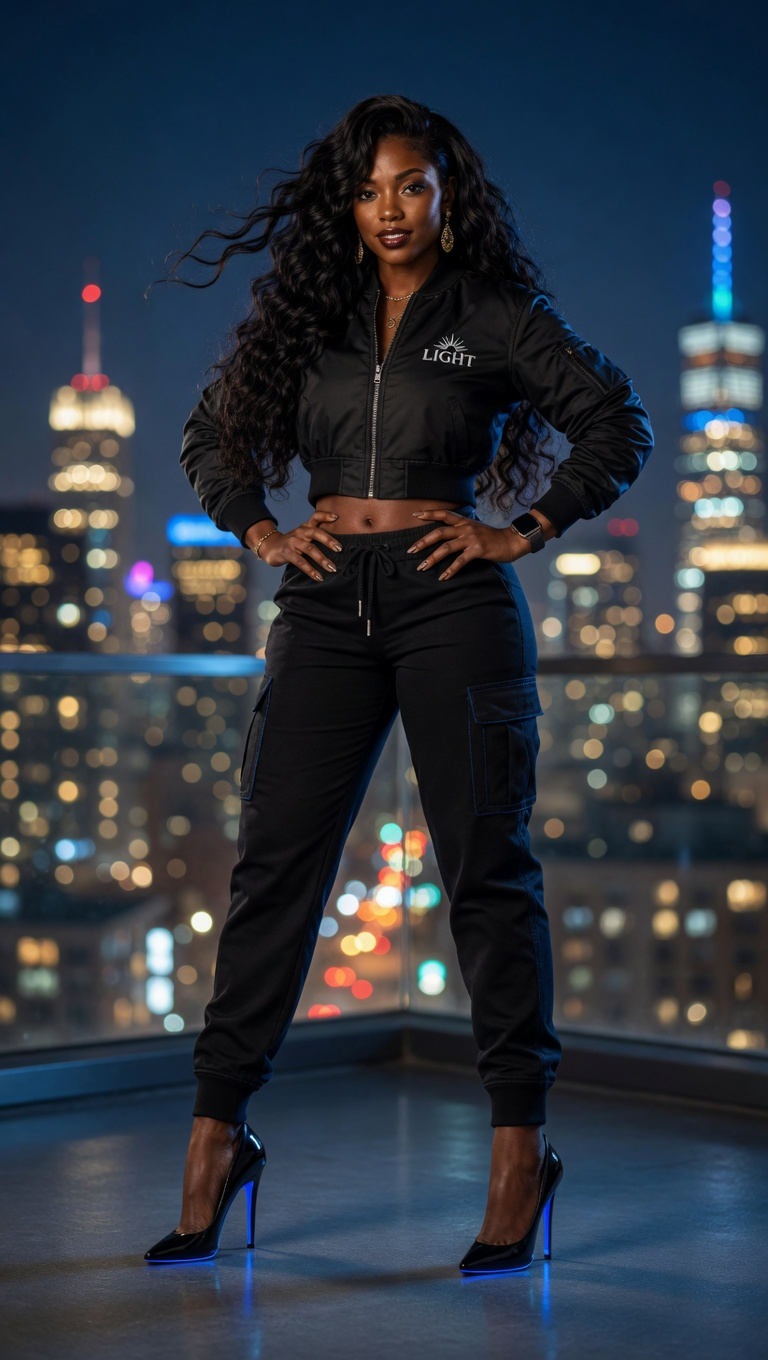
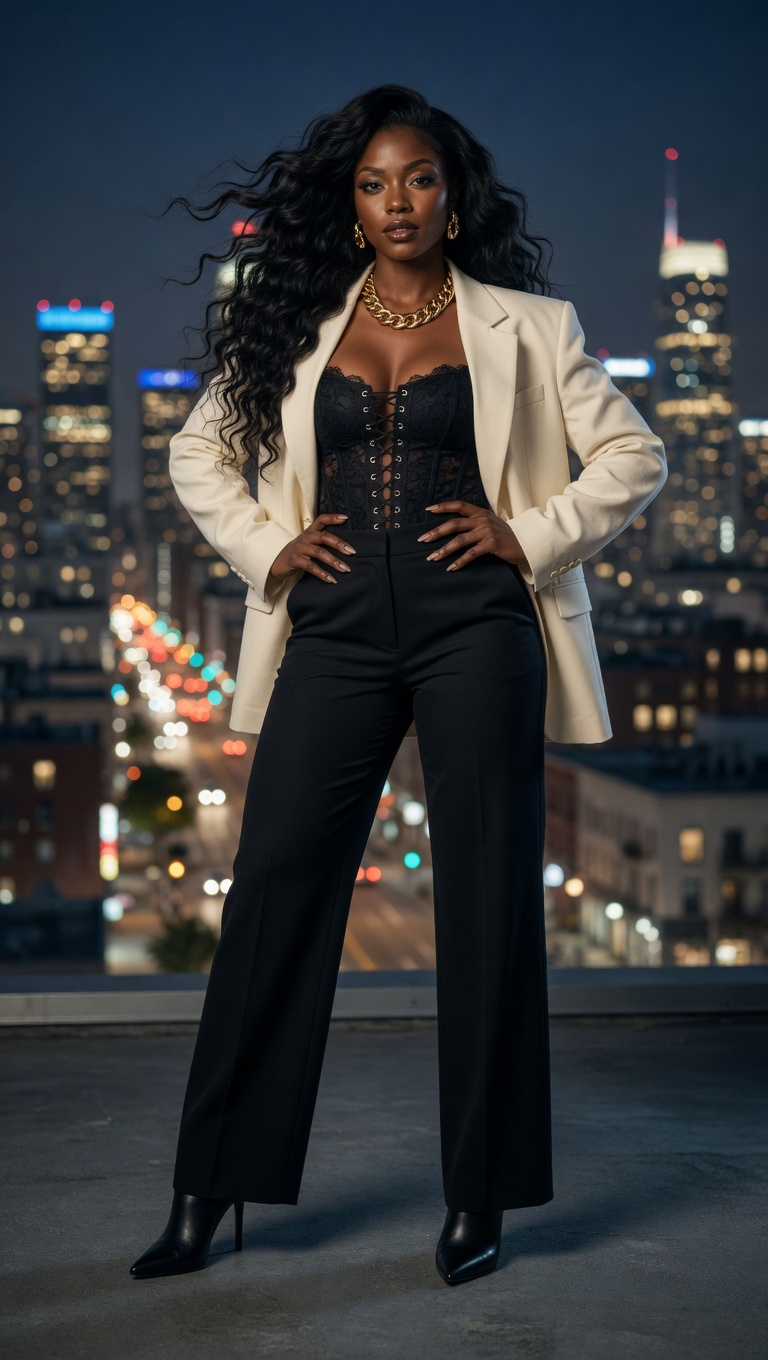
Swap bio portraits to six distinct outfits and looks

diff --git a/js/briunka-link.js b/js/briunka-link.js
@@ -24,12 +24,12 @@ const PACKAGE_INCLUDES = [
 ];
 
 const ARTWORK = [
-    { src: 'assets/images/briunka-belight.jpg', label: 'Be Light' },
-    { src: 'assets/images/briunka-halo.jpg', label: 'Halo' },
+    { src: 'assets/images/briunka-belight.jpg', label: 'Ivory Gold' },
+    { src: 'assets/images/briunka-halo.jpg', label: 'Burgundy Glam' },
     { src: 'assets/images/briunka-city.jpg', label: 'City Lights' },
-    { src: 'assets/images/briunka-stairs.jpg', label: 'Ascension' },
-    { src: 'assets/images/briunka-jungle.jpg', label: 'Jungle Queen' },
-    { src: 'assets/images/briunka-cross.jpg', label: 'Burgundy Night' }
+    { src: 'assets/images/briunka-stairs.jpg', label: 'Royal Gold' },
+    { src: 'assets/images/briunka-jungle.jpg', label: 'Emerald' },
+    { src: 'assets/images/briunka-cross.jpg', label: 'Vintage Night' }
 ];
 
 const YT = 'https://www.youtube.com/@briunkalightofficial';
